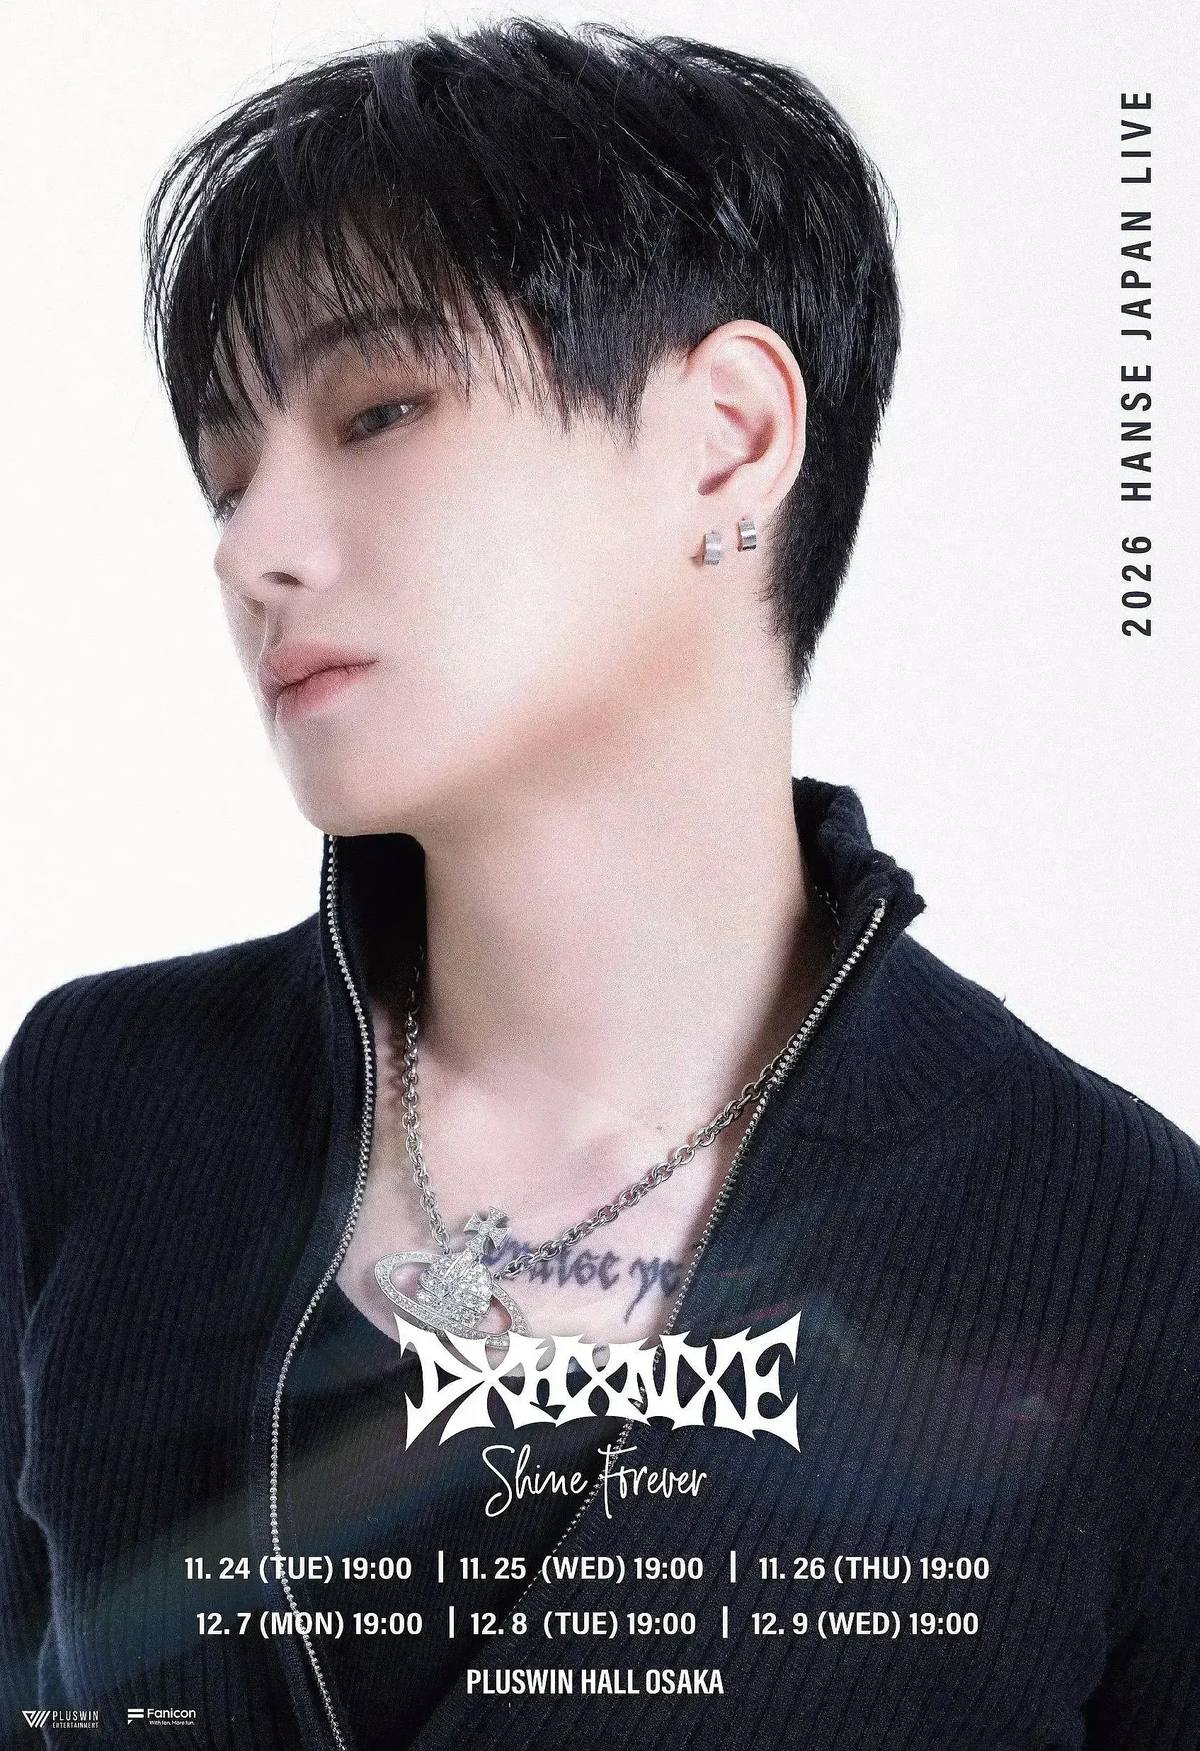
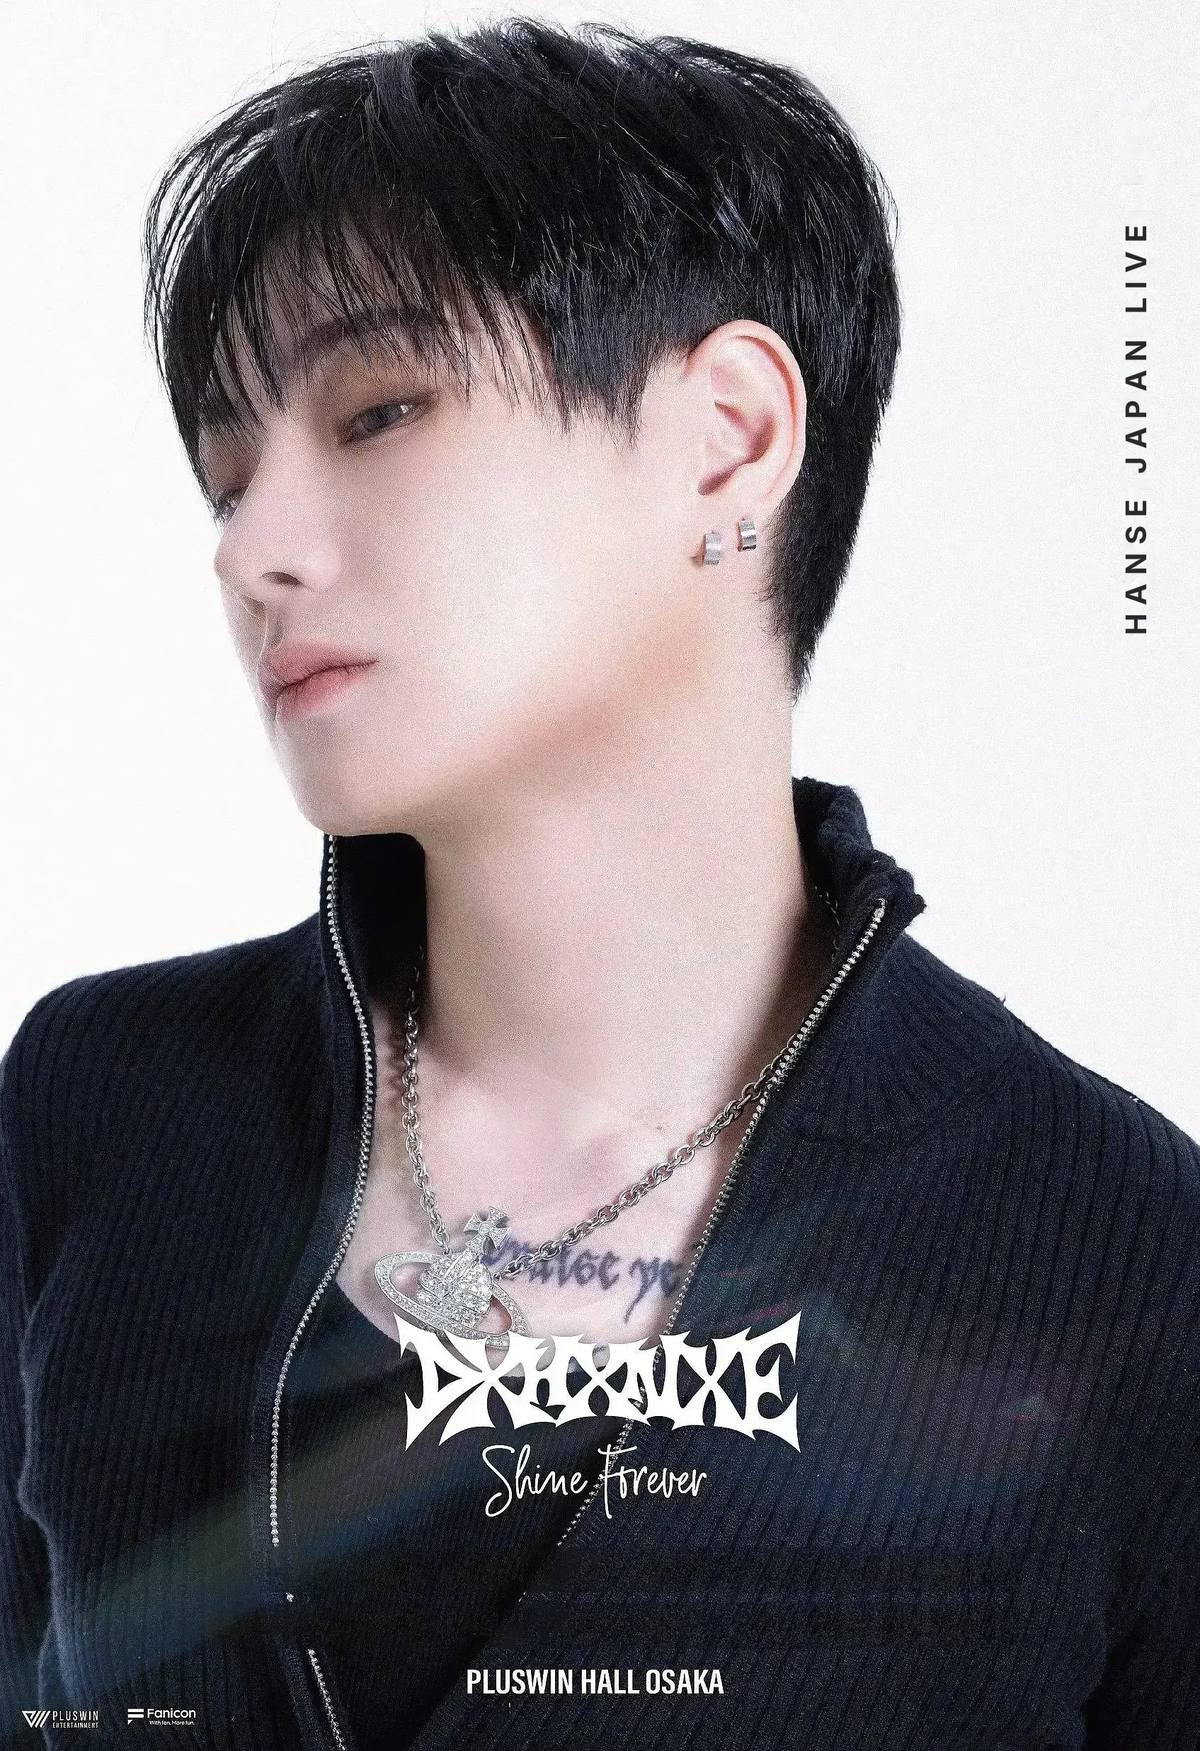
HANSE: 날짜 없는 포스터 1장으로 통일, 정기공연이라 아카이브 목록에서 제외(공연 실적 수에는 포함) — archive:false; ?v=20261128i
Claude-Session: https://claude.ai/code/session_01APSZDhuEs73eRN2Z5RkWZx

Changed region(s): [[0.1542, 0.8635, 0.8325, 0.956], [0.925, 0.0308, 0.9558, 0.3701]]

diff --git a/assets/js/data.js b/assets/js/data.js
@@ -842,11 +842,7 @@ const EVENTS = [
   {
     id: "hanse",
     poster: "assets/img/event-hanse.jpg",
-    posters: [
-      { from: "2026-01-01", src: "assets/img/event-hanse.jpg" },
-      { from: "2027-01-01", src: "assets/img/event-hanse-jan.jpg" },
-      { from: "2027-02-01", src: "assets/img/event-hanse-feb.jpg" }
-    ],
+    archive: false,   // a running monthly series — kept out of the past archive
     showDates: ["2026-12-07", "2026-12-08", "2026-12-09", "2027-01-08", "2027-01-09", "2027-01-11", "2027-01-14", "2027-01-15", "2027-02-23", "2027-02-25", "2027-02-26", "2027-02-27"],
     stampPos: "body",
     title: "HANSE JAPAN LIVE - Shine Forever",
@@ -986,7 +982,7 @@ const PAST = [
   { key: "epts-story100", artist: "EPTS", title: "JAPAN LIVE TOUR 'STORY 100'", date: "2026.08.07 - 11.23", sort: "2026-11-23", year: "2026", venue: "PLUSWIN HALL OSAKA", poster: "assets/img/past/epts-story100.jpg", url: "https://www.pluswin.net/news-1-1/epts-tour" },
   { key: "frame-the-x-2026", artist: "FRAME THE X", title: "JAPAN LIVE TOUR ~2026 Autumn~", date: "2026.09.16 - 11.01", sort: "2026-11-01", year: "2026", venue: "PLUSWIN HALL OSAKA", poster: "assets/img/past/frame-the-x-2026.jpg", url: "https://www.framethexjapan.com/post/ftx-202610japanlive" },
   { key: "kik5o-2026", artist: "Kik5o", title: "FAN CONCERT RE:BORN IN OSAKA 2026", date: "2026.11.15", sort: "2026-11-15", year: "2026", venue: "PLUSWIN HALL VILLEBOA", poster: "assets/img/past/kik5o-2026.jpg", url: "https://www.pluswin.net/news-1-1/kik5o-japanlive" },
-  { key: "hanse-2026", artist: "HANSE", title: "JAPAN LIVE 2026 - Shine Forever", date: "2026.11.24 - 11.26", sort: "2026-11-26", year: "2026", venue: "PLUSWIN HALL OSAKA", poster: "assets/img/past/hanse-2026.jpg", url: "https://www.pluswin.net/news-1-1/dohanse-japan-event" },
+  { key: "hanse-2026", archive: false, artist: "HANSE", title: "JAPAN LIVE 2026 - Shine Forever", date: "2026.11.24 - 11.26", sort: "2026-11-26", year: "2026", venue: "PLUSWIN HALL OSAKA", poster: "assets/img/past/hanse-2026.jpg", url: "https://www.pluswin.net/news-1-1/dohanse-japan-event" },
   { key: "ko-taewoon", artist: "KO TAEWOON", title: "1st FANMEETING in JAPAN [New Chapter:LINK]", date: "2026.10.10 - 11.01", sort: "2026-10-10", year: "2026", venue: "OSAKA / TOKYO", poster: "assets/img/past/ko-taewoon.jpg", url: "https://www.pluswin.net/news-1-1/kotaewoon" },
   { key: "bae-jinyoung", artist: "BAE JINYOUNG", title: "JAPAN FANMEETING [Autumn Breeze]", date: "2026.09.11 - 10.04", sort: "2026-09-11", year: "2026", venue: "GOTANDA / OSAKA", poster: "assets/img/past/bae-jinyoung.jpg", url: "https://www.pluswin.net/news-1-1/baejinyoung" },
   { key: "ehjm", artist: "EHJM", title: "2026 CONCERT IN OSAKA", date: "2026.08.22", sort: "2026-08-22", year: "2026", venue: "PLUSWIN HALL OSAKA", poster: "assets/img/past/ehjm.jpg", url: "https://www.pluswin.net/news-1-1/ehjm-event" },
@@ -1003,7 +999,7 @@ const PAST = [
   { key: "jung-dae-hyun", artist: "JUNG DAE HYUN", title: "FANMEETING IN JAPAN <BLOOMING>", date: "2026.03.25 - 29", sort: "2026-03-25", year: "2026", venue: "OSAKA / TOKYO", poster: "assets/img/past/jung-dae-hyun.jpg", url: "https://www.pluswin.net/news-1-1/daehyun" },
   { key: "kik", artist: "KIK", title: "Asia Tour 2026", date: "2026.03.12 - 15", sort: "2026-03-12", year: "2026", venue: "OSAKA / TOKYO", poster: "assets/img/past/kik.jpg", url: "https://www.pluswin.net/news-1-1/wooseok-live" },
   { key: "jinho-winter-bloom", artist: "JINHO", title: "FAN-CON 'WINTER BLOOM' IN JAPAN", date: "2026.01.22 - 27", sort: "2026-01-22", year: "2026", venue: "TOKYO / OSAKA", poster: "assets/img/past/jinho-winter-bloom.jpg", url: "https://www.pluswin.net/news-1-1/jinho" },
-  { key: "hanse-winter", artist: "HANSE", title: "JAPAN LIVE 2025 WINTER", date: "2025.12.16 - 26", sort: "2025-12-16", year: "2025", venue: "PLUSWIN HALL OSAKA / VILLEBOA", poster: "assets/img/past/hanse-winter.jpg", url: "https://www.pluswin.net/news-1-1/hanse-japanlive" },
+  { key: "hanse-winter", archive: false, artist: "HANSE", title: "JAPAN LIVE 2025 WINTER", date: "2025.12.16 - 26", sort: "2025-12-16", year: "2025", venue: "PLUSWIN HALL OSAKA / VILLEBOA", poster: "assets/img/past/hanse-winter.jpg", url: "https://www.pluswin.net/news-1-1/hanse-japanlive" },
   { key: "hayeon", artist: "HAYEON", title: "The First Bloom in Osaka 2025", date: "2025.12.12 - 21", sort: "2025-12-12", year: "2025", venue: "PLUSWIN HALL OSAKA / VILLEBOA", poster: "assets/img/past/hayeon.jpg", url: "https://www.pluswin.net/news-1-1/hayeon-japanlive" },
   { key: "lim-seul-ong", artist: "LIM SEUL-ONG", title: "SOLO Fan Concert 'ONGBOARDING'", date: "2025.11.07", sort: "2025-11-07", year: "2025", venue: "OSAKA / TOKYO", poster: "assets/img/past/lim-seul-ong.jpg", url: "https://www.pluswin.net/news-1-1/ongboarding" },
   { key: "xin", artist: "X:IN", title: "JAPAN 1st SHOWCASE 2025 'READY X:IN'", date: "2025.10.25 - 29", sort: "2025-10-25", year: "2025", venue: "TOKYO / OSAKA", poster: "assets/img/past/xin.jpg", url: "https://www.pluswin.net/news-1-1/xin-event" },

diff --git a/assets/js/site.js b/assets/js/site.js
@@ -36,7 +36,7 @@ const esc = (s) =>
 
 /* every poster file carries the build tag, so a browser that kept an older
    copy of a poster (the earlier cropped ones) asks for the new file instead */
-const ASSET_V = "20261128h";
+const ASSET_V = "20261128i";
 const vurl = (u) => (u ? u + (u.indexOf("?") === -1 ? "?" : "&") + "v=" + ASSET_V : u);
 
 function monthName(m) {
@@ -82,7 +82,8 @@ function toArchiveItem(e) {
     year: end.slice(0, 4),
     venue: e.archiveVenue || (e.venues || []).map((v) => v.name).join(" / "),
     poster: e.poster || "",
-    url: e.ticket || ""
+    url: e.ticket || "",
+    archive: e.archive
   };
 }
 
@@ -236,7 +237,7 @@ function renderEvents() {
 function renderArchiveStrip() {
   const wrap = $("#archiveThumbs");
   if (!wrap) return;
-  const newest = ARCHIVE
+  const newest = ARCHIVE_LIST
     .filter((p) => p.poster)
     .slice()
     .sort((a, b) => (a.sort < b.sort ? 1 : a.sort > b.sort ? -1 : 0))
@@ -285,15 +286,19 @@ function renderShowCount() {
 /* ---------- renderers: archive ---------- */
 function archiveYears() {
   const years = [];
-  ARCHIVE.forEach((p) => {
+  ARCHIVE_LIST.forEach((p) => {
     const y = String(p.year);
     if (years.indexOf(y) === -1) years.push(y);
   });
   return years.sort((a, b) => b.localeCompare(a));
 }
 
+/* entries marked `archive: false` (e.g. a monthly series that is still running)
+   still count toward the show total in the hero, but are not listed in the archive */
+const ARCHIVE_LIST = ARCHIVE.filter((p) => p.archive !== false);
+
 function pastFiltered() {
-  const all = ARCHIVE
+  const all = ARCHIVE_LIST
     .slice()
     .sort((a, b) => (a.sort < b.sort ? 1 : a.sort > b.sort ? -1 : 0));
   if (state.pastYear === "all") return all;
@@ -317,7 +322,7 @@ function renderArchive() {
   const all = pastFiltered();
   const counts = [document.getElementById("pastCount"), document.getElementById("archiveCount")];
   if (!grid) {
-    counts.forEach((c) => { if (c) c.textContent = String(ARCHIVE.length); });
+    counts.forEach((c) => { if (c) c.textContent = String(ARCHIVE_LIST.length); });
     return;
   }
   grid.innerHTML = all.map((p) => {

diff --git a/index.html b/index.html
@@ -26,8 +26,8 @@ gtag("js",new Date());gtag("config","G-80L7MBMH2J");</script>
 <meta property="og:image" content="https://hkw8102.github.io/-/assets/img/hall/stage-full.jpg">
 <link rel="icon" href="assets/favicon.png" sizes="64x64" type="image/png">
 <link rel="apple-touch-icon" href="assets/favicon-180.png">
-<link rel="preload" as="image" href="assets/img/hall/audience-live.jpg?v=20261128h">
-<link rel="stylesheet" href="styles.css?v=20261128h">
+<link rel="preload" as="image" href="assets/img/hall/audience-live.jpg?v=20261128i">
+<link rel="stylesheet" href="styles.css?v=20261128i">
 </head>
 <body data-page="home">
 <div class="grain" aria-hidden="true"></div>
@@ -74,7 +74,7 @@ gtag("js",new Date());gtag("config","G-80L7MBMH2J");</script>
   <!-- ============ HERO ============ -->
   <section class="hero hero-compact">
     <div class="hero-bg" aria-hidden="true">
-      <img src="assets/img/hall/audience-live.jpg?v=20261128h" alt="" fetchpriority="high">
+      <img src="assets/img/hall/audience-live.jpg?v=20261128i" alt="" fetchpriority="high">
     </div>
     <div class="hero-veil" aria-hidden="true"></div>
     <div class="wrap hero-inner">
@@ -338,10 +338,10 @@ gtag("js",new Date());gtag("config","G-80L7MBMH2J");</script>
   </aside>
 </div>
 
-<script src="assets/js/analytics.js?v=20261128h"></script>
-<script src="assets/js/theme.js?v=20261128h"></script>
-<script src="assets/js/data.js?v=20261128h"></script>
-<script src="assets/js/i18n-extra.js?v=20261128h"></script>
-<script src="assets/js/site.js?v=20261128h"></script>
+<script src="assets/js/analytics.js?v=20261128i"></script>
+<script src="assets/js/theme.js?v=20261128i"></script>
+<script src="assets/js/data.js?v=20261128i"></script>
+<script src="assets/js/i18n-extra.js?v=20261128i"></script>
+<script src="assets/js/site.js?v=20261128i"></script>
 </body>
 </html>

diff --git a/hall.html b/hall.html
@@ -26,8 +26,8 @@ gtag("js",new Date());gtag("config","G-80L7MBMH2J");</script>
 <meta property="og:image" content="https://hkw8102.github.io/-/assets/img/hall/stage-full.jpg">
 <link rel="icon" href="assets/favicon.png" sizes="64x64" type="image/png">
 <link rel="apple-touch-icon" href="assets/favicon-180.png">
-<link rel="stylesheet" href="styles.css?v=20261128h">
-<link rel="stylesheet" href="assets/css/estimate.css?v=20261128h">
+<link rel="stylesheet" href="styles.css?v=20261128i">
+<link rel="stylesheet" href="assets/css/estimate.css?v=20261128i">
 </head>
 <body data-page="hall">
 <div class="grain" aria-hidden="true"></div>
@@ -1730,14 +1730,14 @@ gtag("js",new Date());gtag("config","G-80L7MBMH2J");</script>
   </figure>
 </div>
 
-<script src="assets/js/analytics.js?v=20261128h"></script>
-<script src="assets/js/theme.js?v=20261128h"></script>
-<script src="assets/js/data.js?v=20261128h"></script>
-<script src="assets/js/i18n-extra.js?v=20261128h"></script>
-<script src="assets/js/hall-extras.js?v=20261128h"></script>
-<script src="assets/js/gallery.js?v=20261128h"></script>
-<script src="assets/js/fp-zoom.js?v=20261128h"></script>
-<script src="assets/js/site.js?v=20261128h"></script>
-<script src="assets/js/fields.js?v=20261128h"></script>
+<script src="assets/js/analytics.js?v=20261128i"></script>
+<script src="assets/js/theme.js?v=20261128i"></script>
+<script src="assets/js/data.js?v=20261128i"></script>
+<script src="assets/js/i18n-extra.js?v=20261128i"></script>
+<script src="assets/js/hall-extras.js?v=20261128i"></script>
+<script src="assets/js/gallery.js?v=20261128i"></script>
+<script src="assets/js/fp-zoom.js?v=20261128i"></script>
+<script src="assets/js/site.js?v=20261128i"></script>
+<script src="assets/js/fields.js?v=20261128i"></script>
 </body>
 </html>

diff --git a/estimate.html b/estimate.html
@@ -26,8 +26,8 @@ gtag("js",new Date());gtag("config","G-80L7MBMH2J");</script>
 <meta property="og:image" content="https://hkw8102.github.io/-/assets/img/hall/stage-full.jpg">
 <link rel="icon" href="assets/favicon.png" sizes="64x64" type="image/png">
 <link rel="apple-touch-icon" href="assets/favicon-180.png">
-<link rel="stylesheet" href="styles.css?v=20261128h">
-<link rel="stylesheet" href="assets/css/estimate.css?v=20261128h">
+<link rel="stylesheet" href="styles.css?v=20261128i">
+<link rel="stylesheet" href="assets/css/estimate.css?v=20261128i">
 </head>
 <body data-page="estimate">
 <div class="grain" aria-hidden="true"></div>
@@ -600,12 +600,12 @@ gtag("js",new Date());gtag("config","G-80L7MBMH2J");</script>
   </div>
 </div>
 
-<script src="assets/js/analytics.js?v=20261128h"></script>
-<script src="assets/js/theme.js?v=20261128h"></script>
-<script src="assets/js/data.js?v=20261128h"></script>
-<script src="assets/js/i18n-extra.js?v=20261128h"></script>
-<script src="assets/js/site.js?v=20261128h"></script>
-<script src="assets/js/estimate.js?v=20261128h"></script>
-<script src="assets/js/fields.js?v=20261128h"></script>
+<script src="assets/js/analytics.js?v=20261128i"></script>
+<script src="assets/js/theme.js?v=20261128i"></script>
+<script src="assets/js/data.js?v=20261128i"></script>
+<script src="assets/js/i18n-extra.js?v=20261128i"></script>
+<script src="assets/js/site.js?v=20261128i"></script>
+<script src="assets/js/estimate.js?v=20261128i"></script>
+<script src="assets/js/fields.js?v=20261128i"></script>
 </body>
 </html>

diff --git a/stand.html b/stand.html
@@ -26,7 +26,7 @@ gtag("js",new Date());gtag("config","G-80L7MBMH2J");</script>
 <meta property="og:image" content="https://hkw8102.github.io/-/assets/img/hall/stage-full.jpg">
 <link rel="icon" href="assets/favicon.png" sizes="64x64" type="image/png">
 <link rel="apple-touch-icon" href="assets/favicon-180.png">
-<link rel="stylesheet" href="styles.css?v=20261128h">
+<link rel="stylesheet" href="styles.css?v=20261128i">
 </head>
 <body data-page="stand">
 <div class="grain" aria-hidden="true"></div>
@@ -267,11 +267,11 @@ gtag("js",new Date());gtag("config","G-80L7MBMH2J");</script>
   </div>
 </footer>
 
-<script src="assets/js/analytics.js?v=20261128h"></script>
-<script src="assets/js/theme.js?v=20261128h"></script>
-<script src="assets/js/data.js?v=20261128h"></script>
-<script src="assets/js/i18n-extra.js?v=20261128h"></script>
-<script src="assets/js/site.js?v=20261128h"></script>
-<script src="assets/js/fields.js?v=20261128h"></script>
+<script src="assets/js/analytics.js?v=20261128i"></script>
+<script src="assets/js/theme.js?v=20261128i"></script>
+<script src="assets/js/data.js?v=20261128i"></script>
+<script src="assets/js/i18n-extra.js?v=20261128i"></script>
+<script src="assets/js/site.js?v=20261128i"></script>
+<script src="assets/js/fields.js?v=20261128i"></script>
 </body>
 </html>

diff --git a/archive.html b/archive.html
@@ -26,7 +26,7 @@ gtag("js",new Date());gtag("config","G-80L7MBMH2J");</script>
 <meta property="og:image" content="https://hkw8102.github.io/-/assets/img/hall/stage-full.jpg">
 <link rel="icon" href="assets/favicon.png" sizes="64x64" type="image/png">
 <link rel="apple-touch-icon" href="assets/favicon-180.png">
-<link rel="stylesheet" href="styles.css?v=20261128h">
+<link rel="stylesheet" href="styles.css?v=20261128i">
 </head>
 <body data-page="archive">
 <div class="grain" aria-hidden="true"></div>
@@ -143,10 +143,10 @@ gtag("js",new Date());gtag("config","G-80L7MBMH2J");</script>
   </div>
 </footer>
 
-<script src="assets/js/analytics.js?v=20261128h"></script>
-<script src="assets/js/theme.js?v=20261128h"></script>
-<script src="assets/js/data.js?v=20261128h"></script>
-<script src="assets/js/i18n-extra.js?v=20261128h"></script>
-<script src="assets/js/site.js?v=20261128h"></script>
+<script src="assets/js/analytics.js?v=20261128i"></script>
+<script src="assets/js/theme.js?v=20261128i"></script>
+<script src="assets/js/data.js?v=20261128i"></script>
+<script src="assets/js/i18n-extra.js?v=20261128i"></script>
+<script src="assets/js/site.js?v=20261128i"></script>
 </body>
 </html>

diff --git a/privacy.html b/privacy.html
@@ -26,7 +26,7 @@ gtag("js",new Date());gtag("config","G-80L7MBMH2J");</script>
 <meta property="og:image" content="https://hkw8102.github.io/-/assets/img/hall/stage-full.jpg">
 <link rel="icon" href="assets/favicon.png" sizes="64x64" type="image/png">
 <link rel="apple-touch-icon" href="assets/favicon-180.png">
-<link rel="stylesheet" href="styles.css?v=20261128h">
+<link rel="stylesheet" href="styles.css?v=20261128i">
 </head>
 <body data-page="privacy">
 <div class="grain" aria-hidden="true"></div>
@@ -206,10 +206,10 @@ gtag("js",new Date());gtag("config","G-80L7MBMH2J");</script>
   </div>
 </footer>
 
-<script src="assets/js/analytics.js?v=20261128h"></script>
-<script src="assets/js/theme.js?v=20261128h"></script>
-<script src="assets/js/data.js?v=20261128h"></script>
-<script src="assets/js/i18n-extra.js?v=20261128h"></script>
-<script src="assets/js/site.js?v=20261128h"></script>
+<script src="assets/js/analytics.js?v=20261128i"></script>
+<script src="assets/js/theme.js?v=20261128i"></script>
+<script src="assets/js/data.js?v=20261128i"></script>
+<script src="assets/js/i18n-extra.js?v=20261128i"></script>
+<script src="assets/js/site.js?v=20261128i"></script>
 </body>
 </html>
